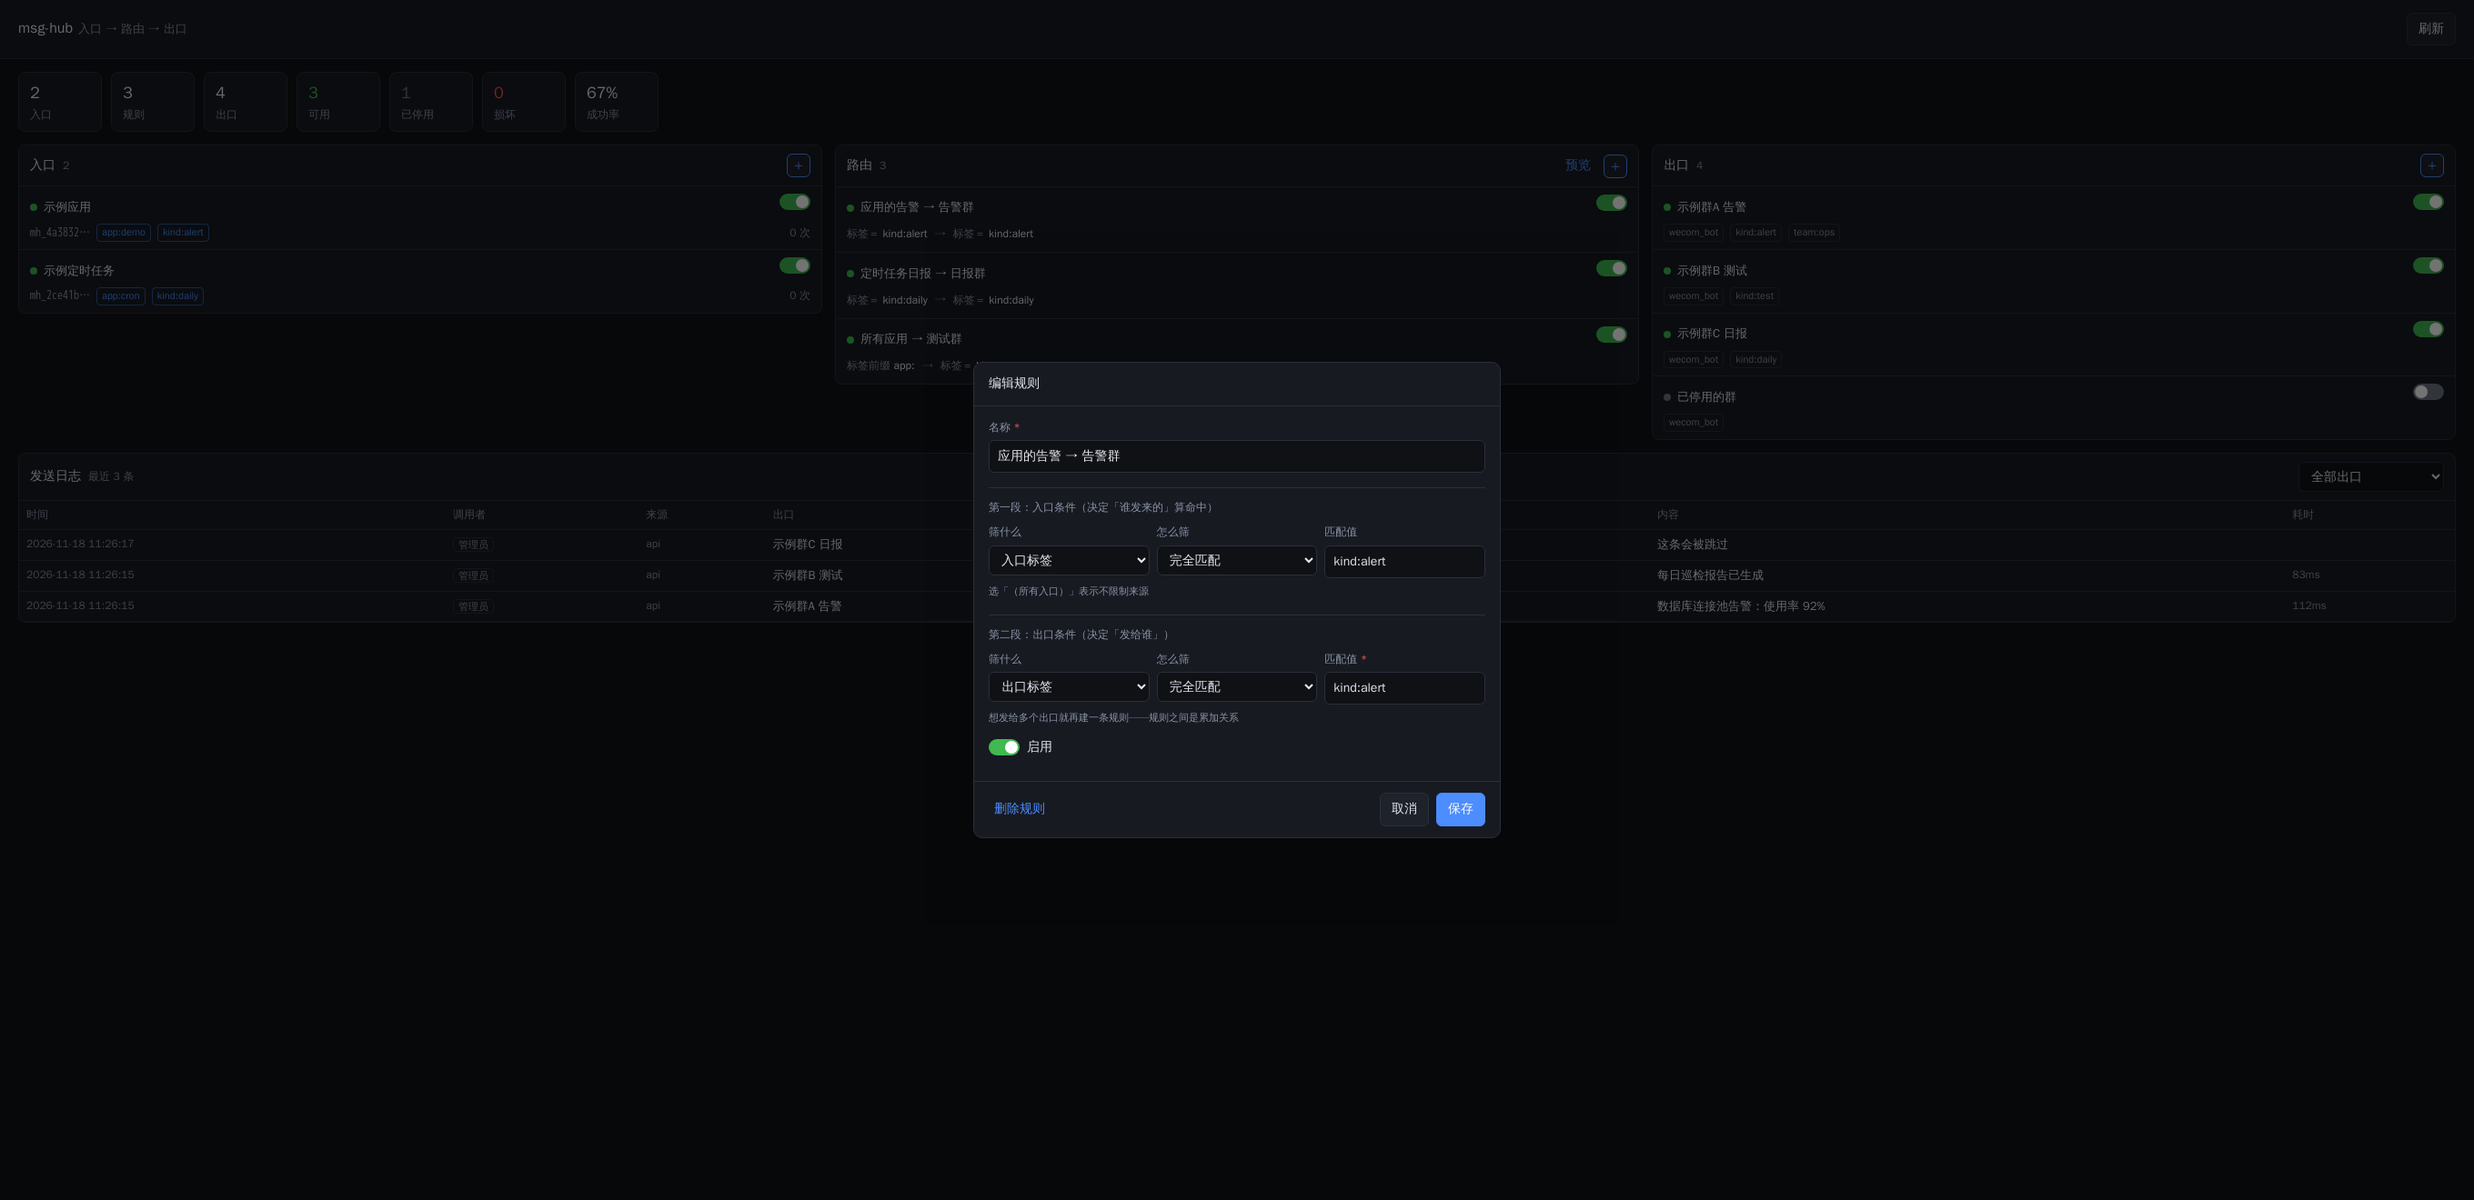
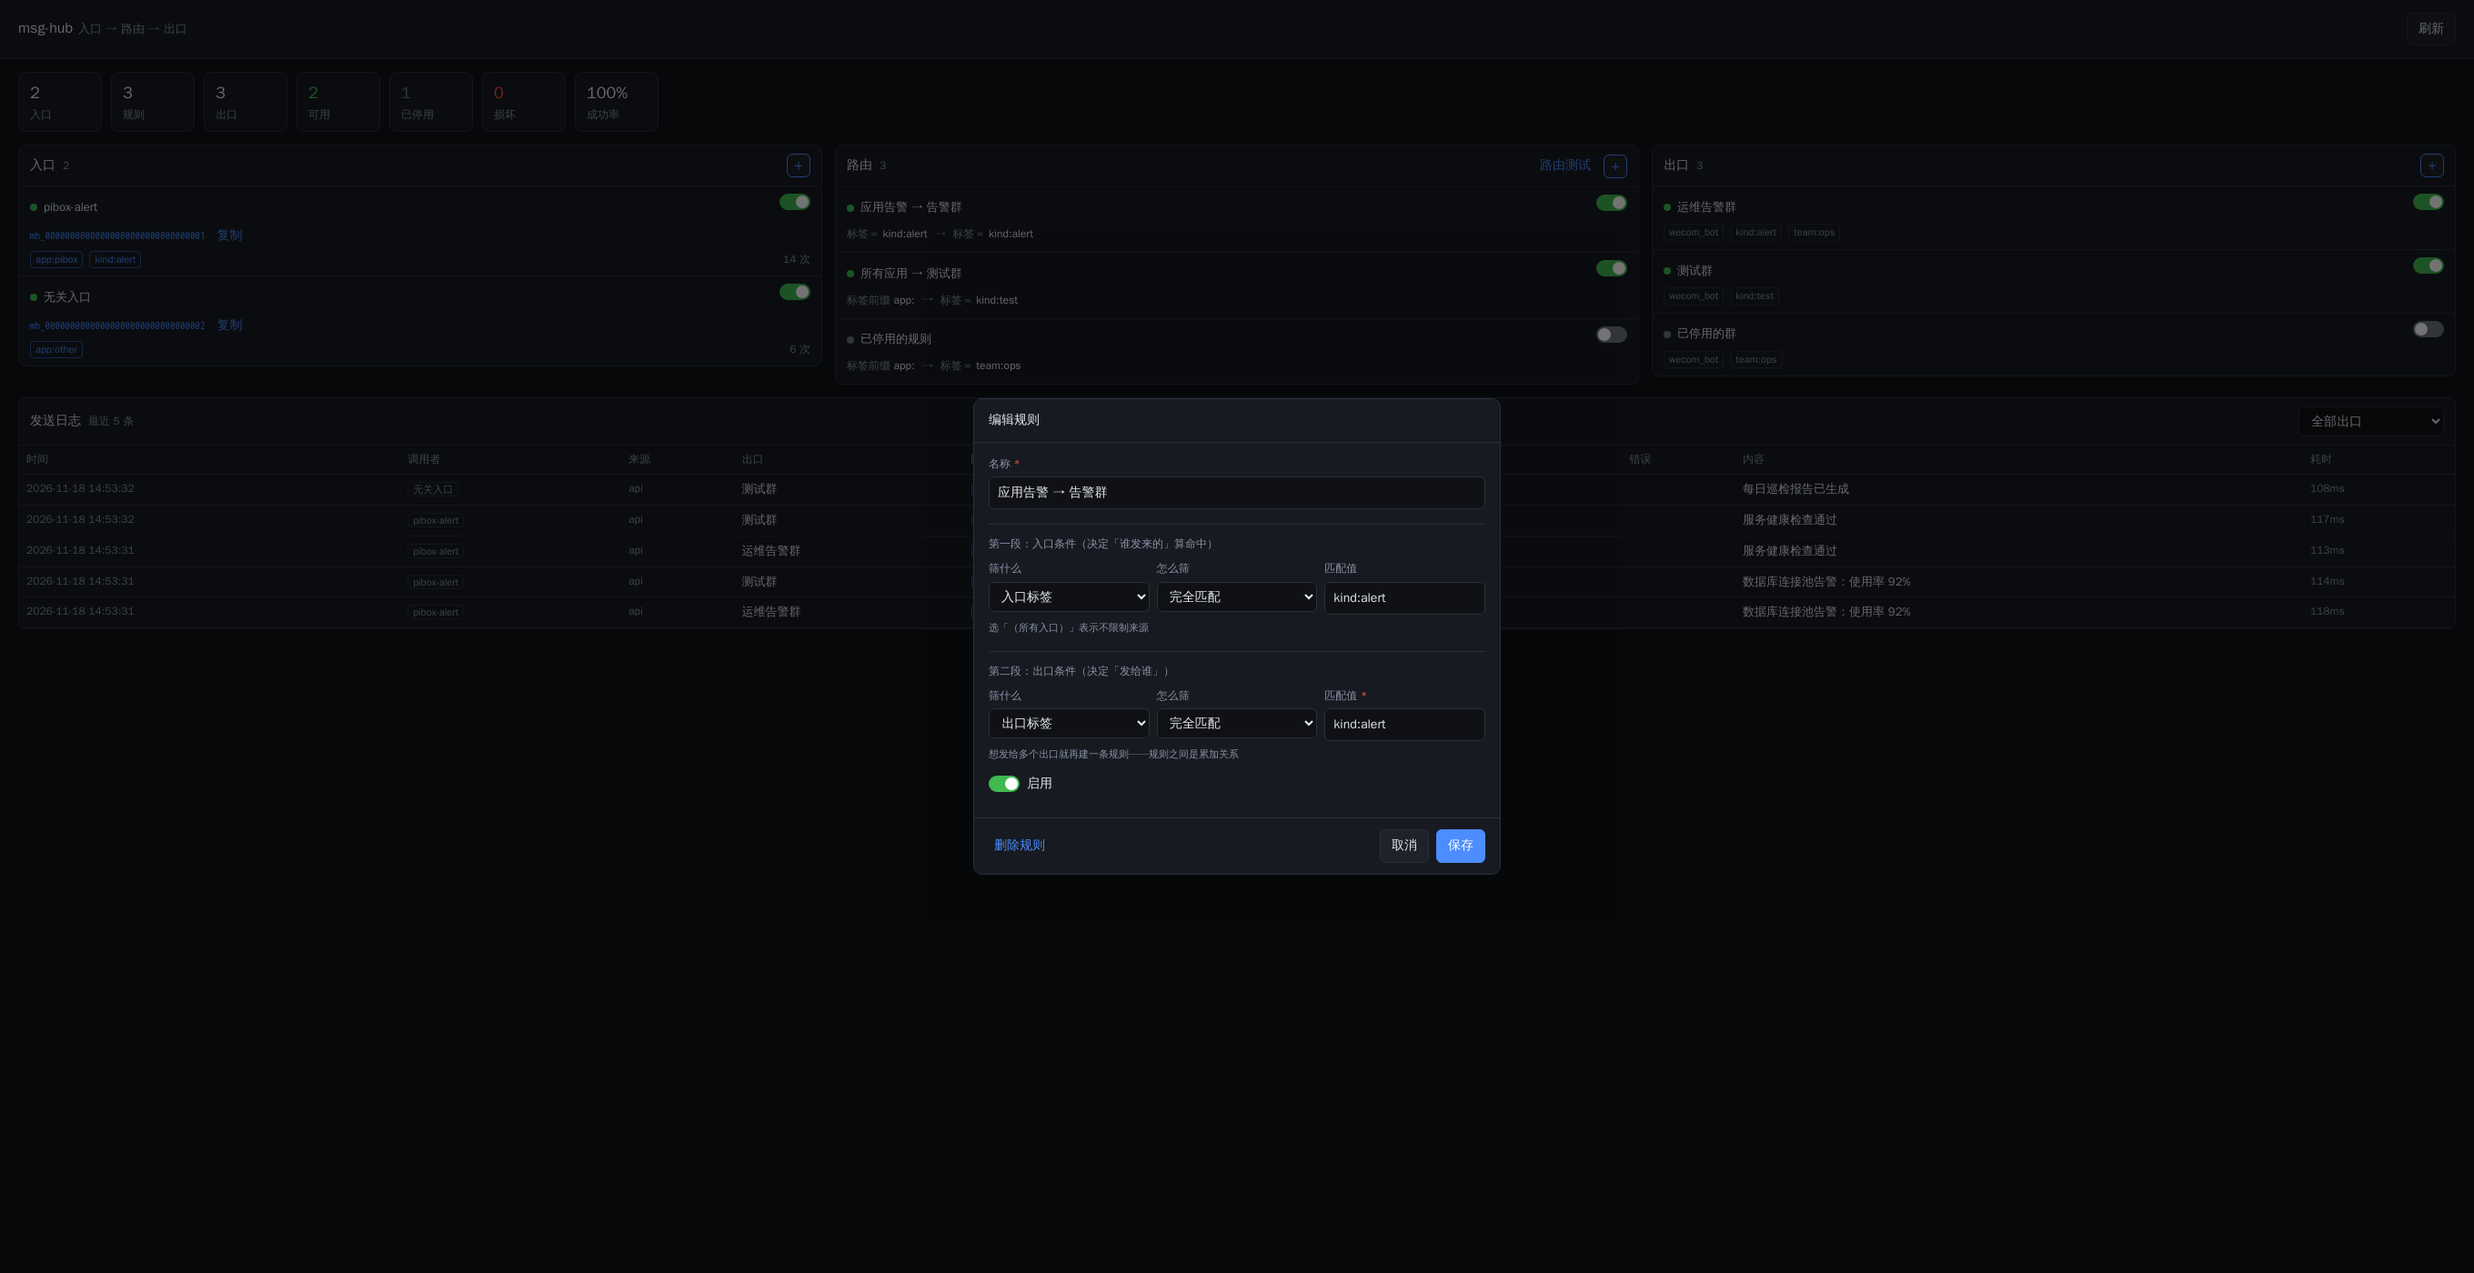
feat(dashboard): 「预览」改为「路由测试」，命中规则与最终出口分两段展示
原来的预览有三个不顺手的地方：

1. 名字叫「预览」，容易被理解成「预览消息内容」，实际是试算路由
2. 选完入口就自动算，想对比几个入口时要来回选、结果还闪
3. 输出把「每条规则的判定」放最后，而用户最想看的是「哪几条规则命中、
   最终发到哪」——需要的信息埋在一堆 false 里

改成：

- 按钮/标题统一叫「路由测试」
- 弹窗里选入口 + 点「测试」才计算（不再 onchange 自动跑），加了「测试中…」状态
- 输出按关注度分三段：
    1. 命中的规则（只列 applied 的：规则名 + 入口条件 + 出口条件）
    2. 最终出口（按命中顺序去重，停用的标注「实际发送会被跳过」）
    3. 未命中的规则 —— 收进 <details> 折叠区，排查时才展开，
       并给出原因（规则停用 / 入口条件不匹配 / 入口命中但没选中出口）
- 一条都没命中时，两段都给出 no_route 提示，不会只剩一片空白

保留 trace 的价值：只是从「主视图」挪到「折叠区」，排查 no_route 时仍能看到
每条规则卡在哪一步（这两种原因的修法完全不同）。

图片：docs/dashboard.png、docs/dialog.png 按新 UI 重拍，新增 docs/route-test.png。
截图里的 token 用 mh_000…0001 占位，不含任何真实凭据。

测试：CDP 驱动真实 chromium 跑了 12 项交互（按钮文案、不自动计算、分段顺序、
命中/出口计数、停用标注、折叠区、no_route 提示），全通过；pytest 断言页面
存在「路由测试」与显式「测试」按钮。123 个测试通过。

diff --git a/src/msg_hub/web/index.html b/src/msg_hub/web/index.html
@@ -169,7 +169,7 @@
       <h2>路由</h2>
       <span class="muted" id="cnt-rules"></span>
       <span class="grow"></span>
-      <button class="link" id="btn-preview">预览</button>
+      <button class="link" id="btn-preview">路由测试</button>
       <button class="add" id="add-rule" title="新建规则">＋</button>
     </div>
     <ul class="list" id="list-rules"></ul>
@@ -335,14 +335,22 @@
 
 <!-- ── 路由预览 ───────────────────────────────────── -->
 <div id="preview-modal" class="modal hidden">
-  <div class="card" style="width:760px">
-    <h3>路由预览（不发送）</h3>
+  <div class="card" style="width:820px">
+    <h3>路由测试</h3>
     <div class="content">
-      <label><span class="lb">选择入口</span><select id="p-entry"></select></label>
-      <div id="p-result"></div>
+      <label><span class="lb">选择一个入口</span>
+        <div class="row">
+          <select id="p-entry" class="grow"></select>
+          <button id="p-run" class="primary" style="flex:none">测试</button>
+        </div>
+      </label>
+      <div class="hint" style="margin:-6px 0 0">只做计算，不会真的发送消息</div>
+      <div id="p-result" style="margin-top:14px">
+        <div class="muted">选一个入口，点「测试」看会投递到哪些出口。</div>
+      </div>
     </div>
     <div class="foot">
-      <button id="p-close" class="primary">关闭</button>
+      <button id="p-close">关闭</button>
     </div>
   </div>
 </div>
@@ -852,45 +860,78 @@ async function removeChannel(channel) {
   } catch (err) { toast(err.message, true); }
 }
 
-// ── 路由预览 ────────────────────────────────────────────
-async function openPreview() {
+// ── 路由测试 ────────────────────────────────────────────
+function openPreview() {
   $("p-entry").innerHTML = `<option value="">（管理员视角：只有入口条件为空的规则会命中）</option>`
     + ENTRIES.map((e) => `<option value="${e.id}">#${e.id} ${esc(e.name)}</option>`).join("");
-  $("p-result").innerHTML = `<div class="muted">选择入口后自动计算</div>`;
+  $("p-result").innerHTML = `<div class="muted">选一个入口，点「测试」看会投递到哪些出口。</div>`;
   show("preview-modal");
-  await runPreview();
 }
 
 async function runPreview() {
   const entry = $("p-entry").value;
   const box = $("p-result");
+  const button = $("p-run");
+  button.disabled = true;
+  box.innerHTML = `<div class="muted">测试中…</div>`;
   try {
     const data = await api("/api/route/preview" + (entry ? "?entry=" + encodeURIComponent(entry) : ""));
     const outs = data.outbounds || [];
     const trace = data.trace || [];
-    const outHtml = outs.length
-      ? `<table><thead><tr><th>#</th><th>出口</th><th>类型</th><th>标签</th><th>状态</th></tr></thead><tbody>`
-        + outs.map((c) => `<tr><td class="muted">${c.id}</td><td>${esc(c.name)}</td>
-            <td class="muted">${esc(c.type)}</td><td>${tagList(c.tags)}</td>
-            <td>${c.enabled ? '<span class="pill ok">启用</span>' : '<span class="pill warn">停用会被跳过</span>'}</td></tr>`).join("")
-        + `</tbody></table>`
-      : `<div class="err-msg">没有命中任何出口 —— 这条入口发消息会返回 no_route</div>`;
-    const traceHtml = trace.length
-      ? `<div class="sec">每条规则的判定</div>
-         <table><thead><tr><th>#</th><th>规则</th><th>入口条件</th><th>出口条件</th><th>结果</th></tr></thead><tbody>`
-        + trace.map((t) => `<tr>
+    const applied = trace.filter((t) => t.applied);
+
+    // 1. 命中的规则
+    const rulesHtml = applied.length
+      ? `<table><thead><tr><th>#</th><th>规则</th><th>入口条件</th><th>出口条件</th></tr></thead><tbody>`
+        + applied.map((t) => `<tr>
             <td class="muted">${t.id}</td>
-            <td>${esc(t.name)}${t.enabled ? "" : ' <span class="pill err">停用</span>'}</td>
+            <td>${esc(t.name)}</td>
             <td class="cond">${esc(t.entry_condition)}</td>
             <td class="cond">${esc(t.outbound_condition)}</td>
-            <td>${t.applied ? '<span class="pill ok">命中</span>'
-              : (t.entry_matched ? '<span class="pill warn">入口命中但无出口</span>' : '<span class="muted">入口不匹配</span>')}</td>
           </tr>`).join("")
         + `</tbody></table>`
-      : `<div class="muted">还没有任何规则</div>`;
-    box.innerHTML = `<div class="sec">将投递到 ${outs.length} 个出口</div>${outHtml}${traceHtml}`;
+      : `<div class="err-msg">没有命中任何规则 —— 这个入口发消息会返回 no_route</div>`;
+
+    // 2. 最终出口
+    const outHtml = outs.length
+      ? `<table><thead><tr><th>#</th><th>出口</th><th>类型</th><th>标签</th><th>状态</th></tr></thead><tbody>`
+        + outs.map((c) => `<tr>
+            <td class="muted">${c.id}</td>
+            <td>${esc(c.name)}</td>
+            <td class="muted">${esc(c.type)}</td>
+            <td>${tagList(c.tags)}</td>
+            <td>${c.enabled ? '<span class="pill ok">启用</span>'
+              : '<span class="pill warn">已停用，实际发送会被跳过</span>'}</td>
+          </tr>`).join("")
+        + `</tbody></table>`
+      : `<div class="err-msg">最终没有可用出口 —— 这条入口发消息会返回 no_route</div>`;
+
+    // 3. 未命中的规则收进折叠区（默认不打扰，排查时才展开）
+    const skipped = trace.filter((t) => !t.applied);
+    const skippedHtml = skipped.length
+      ? `<details style="margin-top:12px">
+           <summary class="muted" style="cursor:pointer">未命中的规则（${skipped.length} 条）</summary>
+           <table style="margin-top:8px"><thead><tr><th>#</th><th>规则</th><th>入口条件</th><th>出口条件</th><th>原因</th></tr></thead><tbody>`
+        + skipped.map((t) => `<tr>
+            <td class="muted">${t.id}</td>
+            <td>${esc(t.name)}</td>
+            <td class="cond">${esc(t.entry_condition)}</td>
+            <td class="cond">${esc(t.outbound_condition)}</td>
+            <td>${!t.enabled ? '<span class="pill err">规则已停用</span>'
+              : (!t.entry_matched ? '<span class="muted">入口条件不匹配</span>'
+              : '<span class="pill warn">入口命中但没选中出口</span>')}</td>
+          </tr>`).join("")
+        + `</tbody></table></details>`
+      : "";
+
+    box.innerHTML = `
+      <div class="sec">命中的规则（${applied.length} 条）</div>${rulesHtml}
+      <div class="sec">最终出口（${outs.length} 个，按命中顺序去重）</div>${outHtml}
+      ${skippedHtml}`;
   } catch (err) {
     box.innerHTML = `<div class="err-msg">${esc(err.message)}</div>`;
+  } finally {
+    button.disabled = false;
   }
 }
 
@@ -907,7 +948,7 @@ $("add-entry").onclick = () => openEntryModal(null);
 $("add-rule").onclick = () => openRuleModal(null);
 $("add-channel").onclick = () => openChannelModal(null);
 $("btn-preview").onclick = () => openPreview();
-$("p-entry").onchange = () => runPreview();
+$("p-run").onclick = () => runPreview();
 $("p-close").onclick = () => hide("preview-modal");
 $("r-entry-field").onchange = () => syncCondEnabled();
 

diff --git a/tests/test_dashboard.py b/tests/test_dashboard.py
@@ -70,6 +70,9 @@ def test_dashboard_page_served_with_basic_auth(cfg):
     assert "btn-tab-" not in body
     # 日志表要能看出「为什么发到这个出口」
     assert "<th>匹配规则</th>" in body
+    # 路由测试：选入口 + 显式「测试」按钮（不在选择时自动计算）
+    assert 'id="btn-preview"' in body and "路由测试" in body
+    assert 'id="p-run"' in body and ">测试<" in body
     # 点行弹窗修改：三个编辑弹窗都在
     for modal in ("entry-modal", "rule-modal", "channel-modal"):
         assert f'id="{modal}"' in body, modal

diff --git a/README.md b/README.md
@@ -53,7 +53,7 @@ curl / 脚本          → │ /api   REST                              │
 - **审计日志**：每条发送（含 dry_run、失败）写 `logs/YYYY-MM-DD.jsonl`，带上**命中的规则**与 `request_id`，
   能直接回答「这条消息为什么发到了这个出口」
 - **两种部署形态**：HTTP 服务（compose，供外部系统调用）/ **stdio 子进程（零依赖，直接塞进 pi-box 等宿主）**
-- **自带 Dashboard**：HTTP 形态带一个单页看板（入口 / 路由 / 出口 三栏并列，点行弹窗改），能手工启停增删、编辑标签与规则，并带「路由预览」看某入口会发到哪些出口
+- **自带 Dashboard**：HTTP 形态带一个单页看板（入口 / 路由 / 出口 三栏并列，点行弹窗改），能手工启停增删、编辑标签与规则，并带「路由测试」看某入口会投递到哪些出口
 - **零外部依赖**：核心只用标准库（无 pip 包），没有数据库、没有 MQ
 - **工具契约只写一遍**：stdio 与 HTTP 两个前端共用 `msg_hub/tools.py` 里的同一份定义，不会各自漂移
 
@@ -157,13 +157,17 @@ curl -s -X POST localhost:8788/api/send \
 #    "matched_rules":[{"id":1,"name":"监控平台的告警 → 运维群"}]}
 ```
 
-6. 不确定会发到哪？先预览（不发送）：
+6. 不确定会发到哪？先做一次路由测试（不发送）：
 
 ```bash
 curl -s "localhost:8788/api/route/preview?entry=监控平台" \
   -u "admin:$MSG_HUB_ADMIN_PASSWORD" | jq
-# 返回 outbounds（命中的出口）+ trace（每条规则的判定明细）
+# outbounds：命中的出口（去重后）
+# trace：每条规则的判定明细（entry_matched / outbounds / applied）
 ```
+
+dashboard 的「路由测试」就是这个接口的可视化：选入口 → 点测试 → 先看命中的规则，
+再看最终出口。
 
 ### 新建一个邮箱渠道
 
@@ -360,7 +364,7 @@ kind:alert    kind:daily       team:ops    team:ea
 | GET | `/api/rules/{ref}` | 规则详情 |
 | PATCH | `/api/rules/{ref}` | 改规则（`clear_entry=true` 清空入口条件） |
 | DELETE | `/api/rules/{ref}` | 删除规则 |
-| GET | `/api/route/preview?entry=` | 路由预览（不发送） |
+| GET | `/api/route/preview?entry=` | 路由测试（算出会投递到哪些出口，不发送） |
 | POST | `/api/send` | 发送（`text` 必有；`channel` 仅管理员可用） |
 | GET | `/api/logs?channel=&limit=` | 审计日志（**仅管理员**） |
 
@@ -368,7 +372,7 @@ kind:alert    kind:daily       team:ops    team:ea
 
 | 通道 | 凭据 | 配置位置 | 能干什么 |
 |---|---|---|---|
-| **管理面** | Basic `用户名 + 密码` | 环境变量，**强制必填** | 看板、出口/入口/规则增删改、**看日志**、路由预览、发消息 |
+| **管理面** | Basic `用户名 + 密码` | 环境变量，**强制必填** | 看板、出口/入口/规则增删改、**看日志**、路由测试、发消息 |
 | **调用面** | API Token（入口） | `state.json` 的 `entries[]`，**可选** | **只能发消息**，且**不能指定出口**；明文可随时查（仅管理员） |
 
 管理员密码没配就拒绝启动；入口 token 是可选的第二条通道，**不建入口时管理员照常能发消息**，不会出现「无鉴权」状态。
@@ -409,14 +413,15 @@ curl -X POST localhost:8788/api/send \
 HTTP 服务形态附带一个单页 dashboard：`http://127.0.0.1:8788/dashboard`（根路径 `/` 会跳过去）。
 <p align="center">
   <img src="docs/dashboard.png" alt="msg-hub 三栏总览：入口 / 路由 / 出口 + 发送日志" width="760"><br>
-  <img src="docs/dialog.png" alt="点列表中的行弹出修改" width="760">
+  <img src="docs/dialog.png" alt="点列表中的行弹出修改" width="760"><br>
+  <img src="docs/route-test.png" alt="路由测试：选中入口后先看命中的规则，再看最终出口" width="760">
 </p>
 
 布局是**三栏并列**，对应三层模型，底下是发送日志：
 
 ```
 ┌──────────────┬──────────────┬──────────────┐
-│ 入口    [＋] │ 路由 预览 [＋]│ 出口    [＋] │
+│ 入口    [＋] │ 路由 测试 [＋]│ 出口    [＋] │
 │ ──────────── │ ──────────── │ ──────────── │
 │ ● 示例应用   │ ● 应用告警→… │ ● 示例群A    │
 │ ● 示例定时任务│ ● 定时日报→… │ ● 示例群B    │
@@ -433,7 +438,7 @@ HTTP 服务形态附带一个单页 dashboard：`http://127.0.0.1:8788/dashboard
 
 细节：
 
-- **路由**栏多一个「预览」：选一个入口，实时算出会投递到哪些出口，并逐条显示规则命中情况
+- **路由**栏多一个「路由测试」：选一个入口 → 点「测试」→ 先列出**命中的规则**，再列出**最终出口**（按命中顺序去重，已停用的会标注）；未命中的规则收在折叠区，排查时再展开
 - **出口**编辑时类型锁定、凭据表单默认收起；勾「重新填写凭据」才展开（避免把打码值写回去）
 - **发送日志**可按出口过滤（下拉），支持 sent / skipped / failed 三种结果展示
 - 一条规则都没配时，规则栏会提示「现在任何入口都发不出消息」
